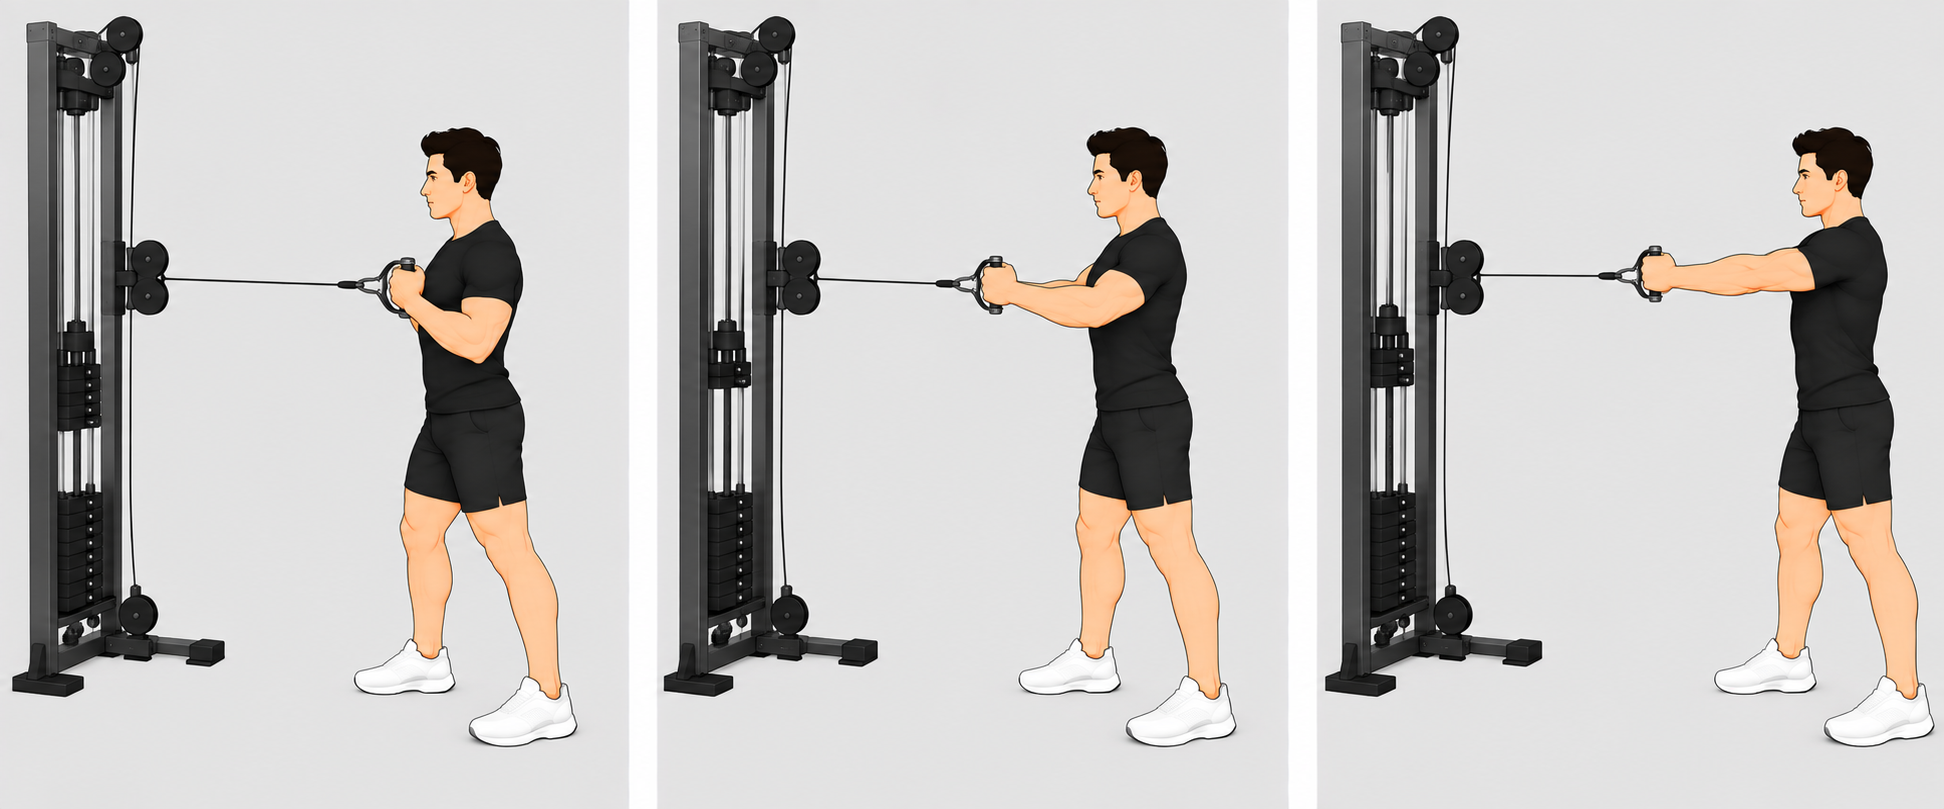
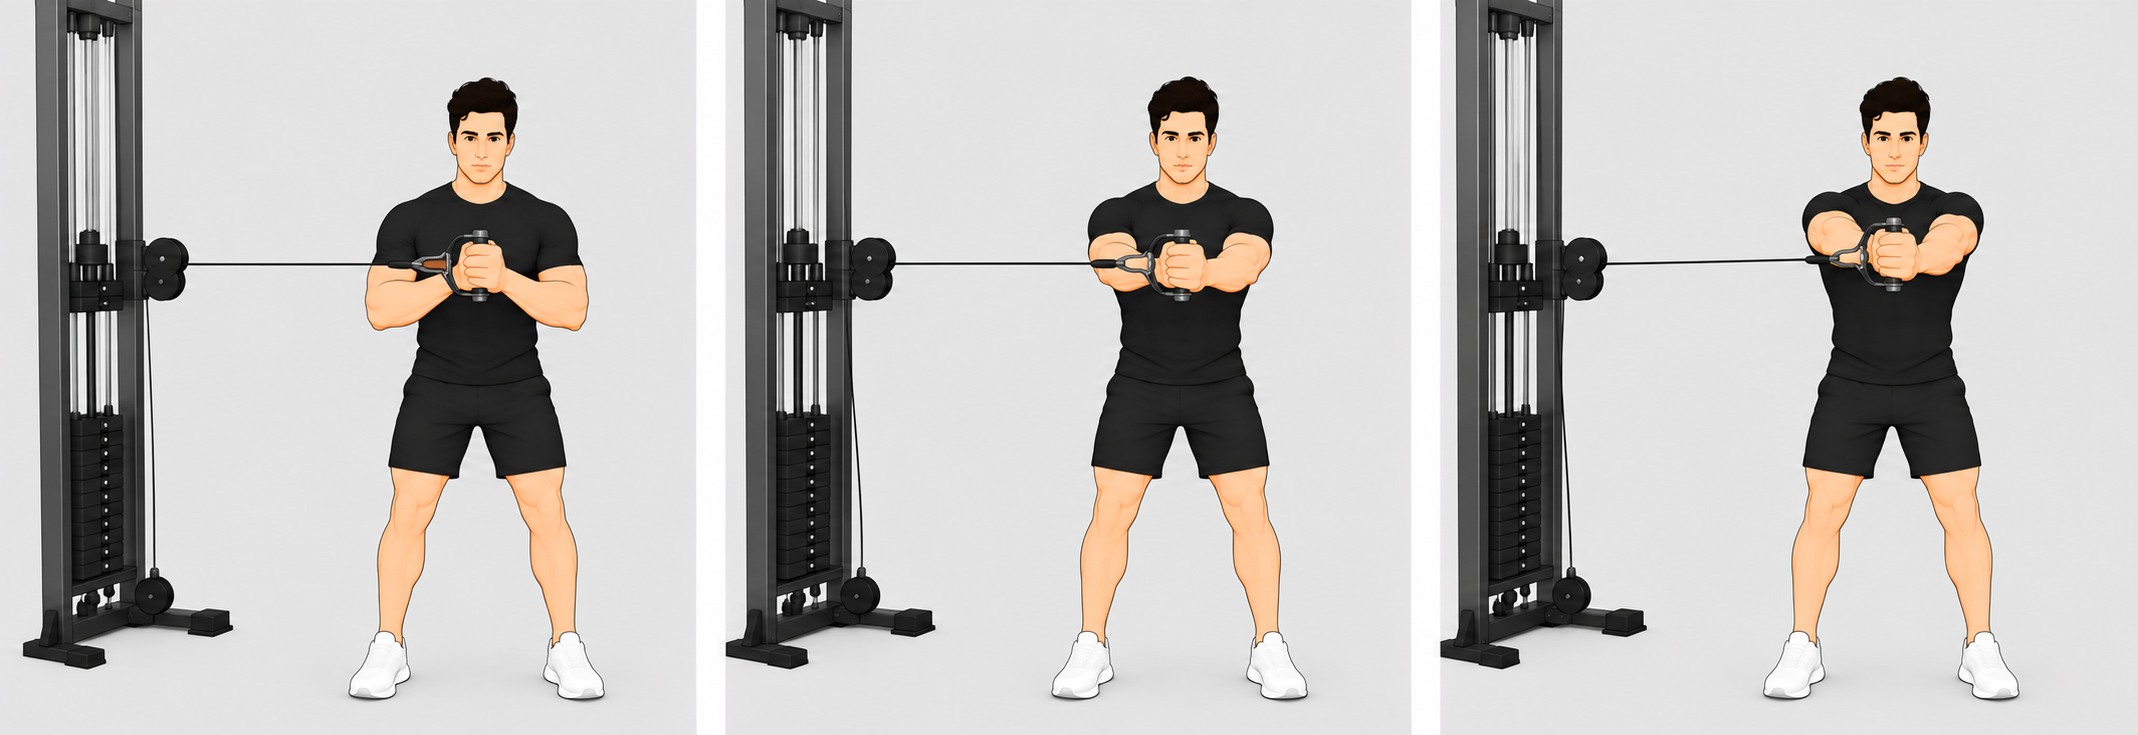
Redo the Pallof press poses (cable from the side, anti-rotation)

Changed region(s): [[0.3395, 0.0, 1.0, 1.0], [0.0, 0.0, 0.3086, 0.9578]]

diff --git a/src/features/exercises/exerciseMedia.generated.ts b/src/features/exercises/exerciseMedia.generated.ts
@@ -194,9 +194,9 @@ export const exerciseMedia = {
     thumbnail: "media/exercises/core/pallof-press-thumb.d8add18d.webp",
     photo: "media/exercises/core/pallof-press.203dbe73.webp",
     frames: [
-      "media/exercises/core/pallof-press-frame1.8f29ab2f.webp",
-      "media/exercises/core/pallof-press-frame2.a5ce2fda.webp",
-      "media/exercises/core/pallof-press-frame3.c94ef336.webp",
+      "media/exercises/core/pallof-press-frame1.c9cdf222.webp",
+      "media/exercises/core/pallof-press-frame2.e7aa5a20.webp",
+      "media/exercises/core/pallof-press-frame3.76bcbdfa.webp",
     ],
   },
   "planche": {
